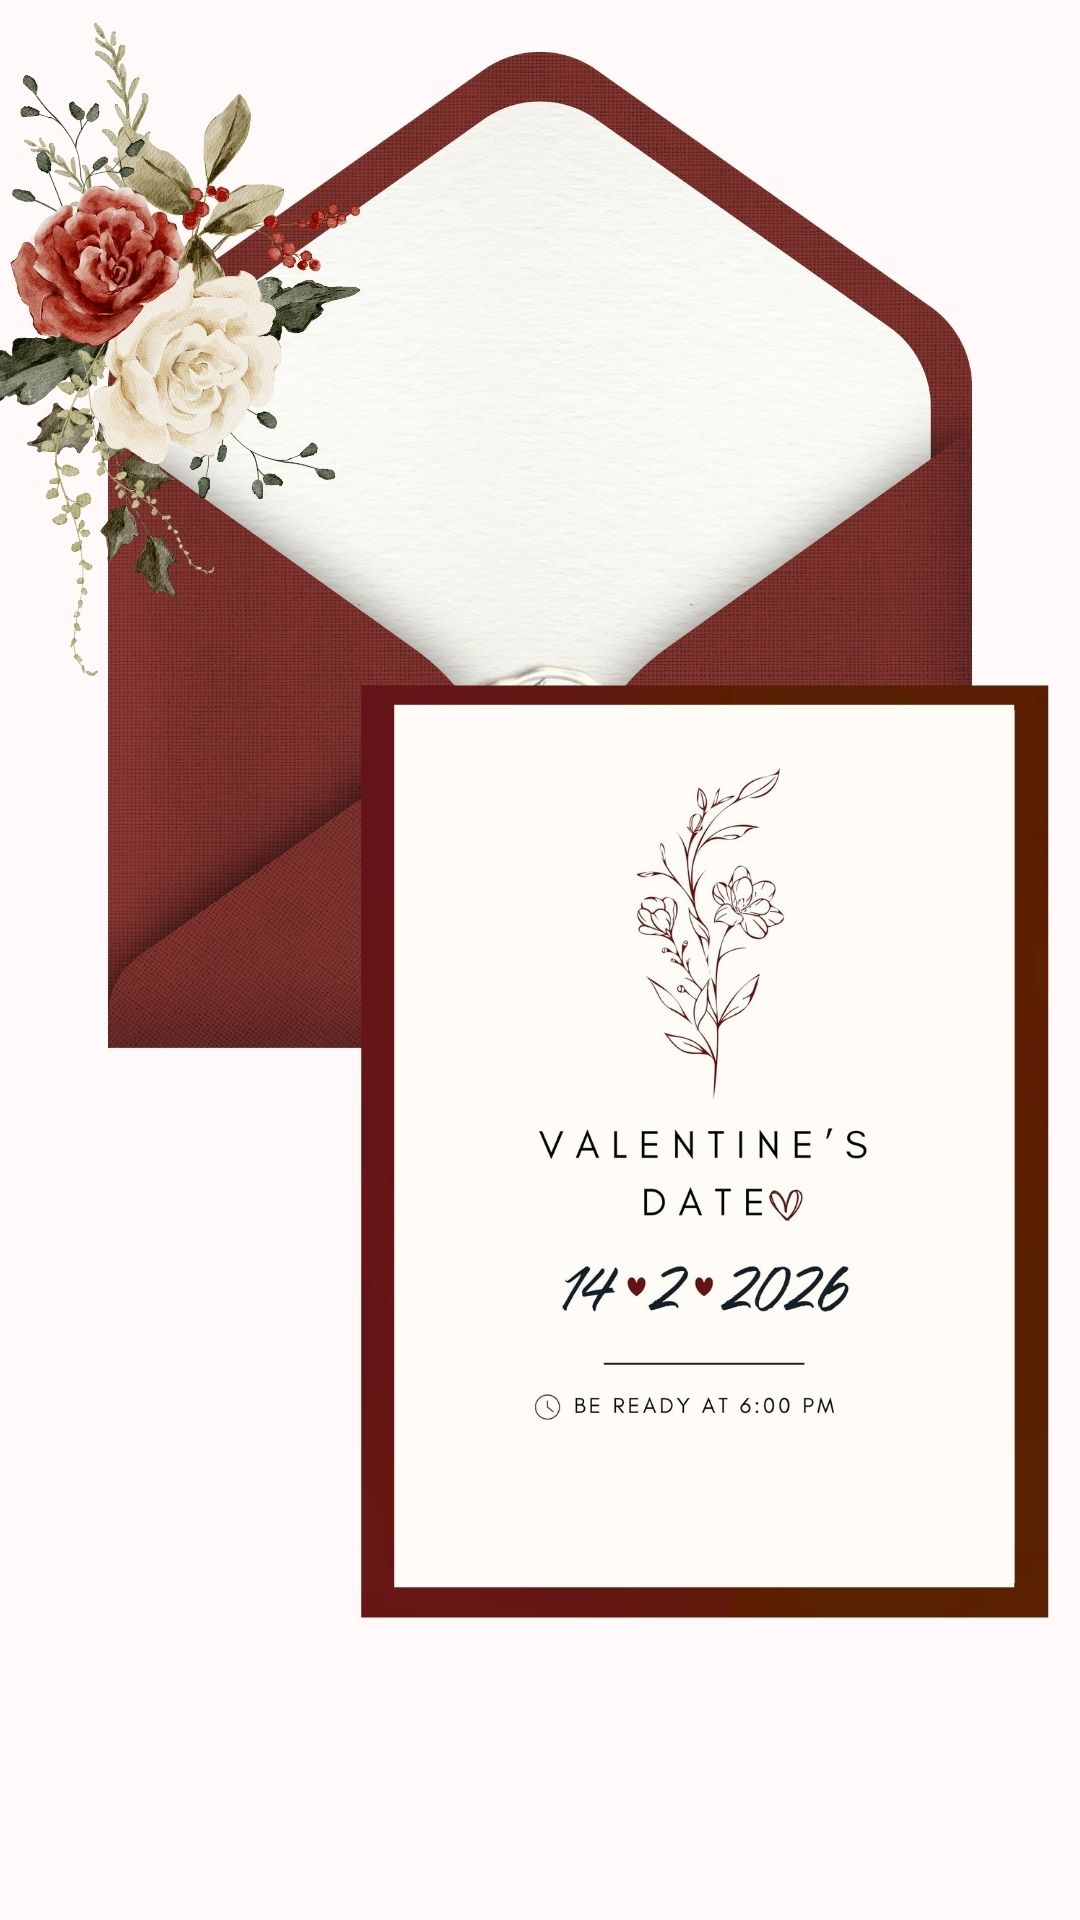
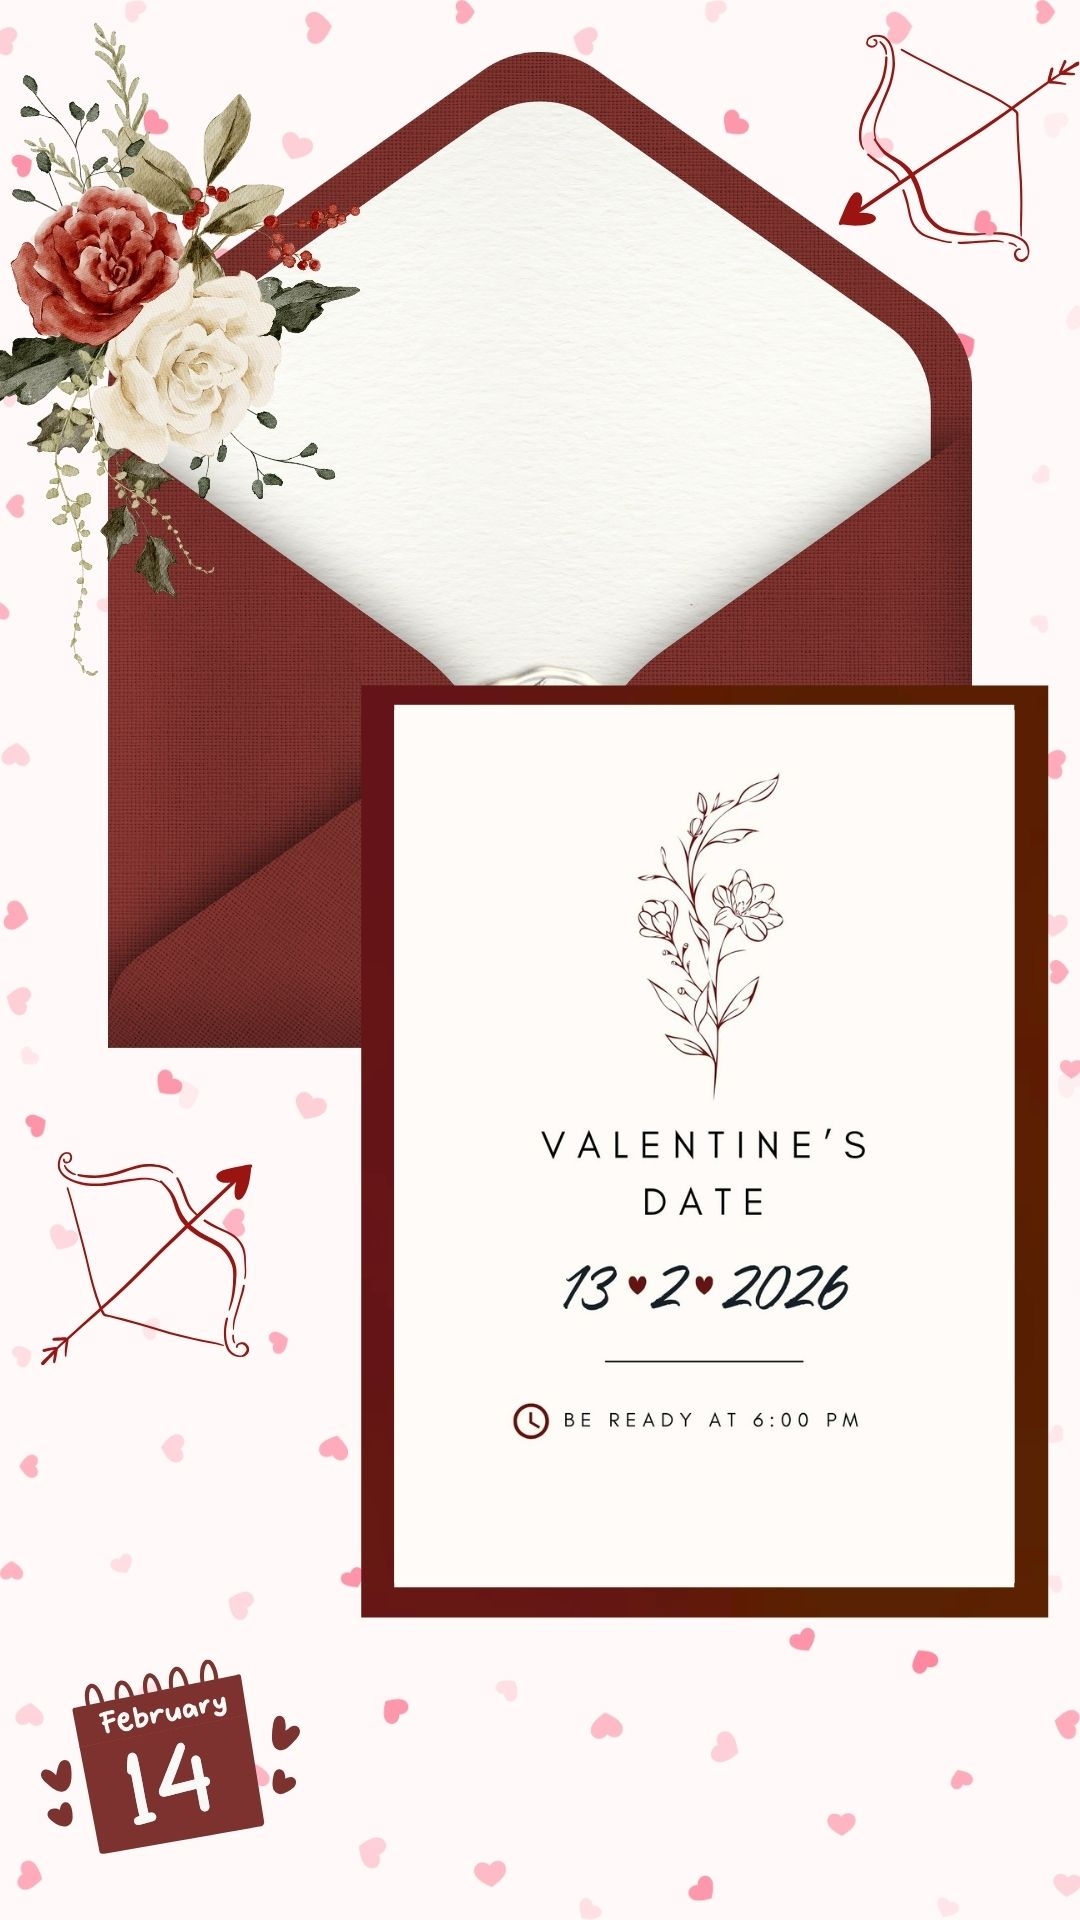
Initial commit

diff --git a/app/page.tsx b/app/page.tsx
@@ -193,7 +193,7 @@ export default function Home() {
   }, [])
 
   useEffect(() => {
-    const targetTime = new Date(2026, 1, 14, 18, 0, 0).getTime()
+    const targetTime = new Date(2026, 1, 13, 18, 0, 0).getTime()
 
     const updateCountdown = () => {
       const now = Date.now()
